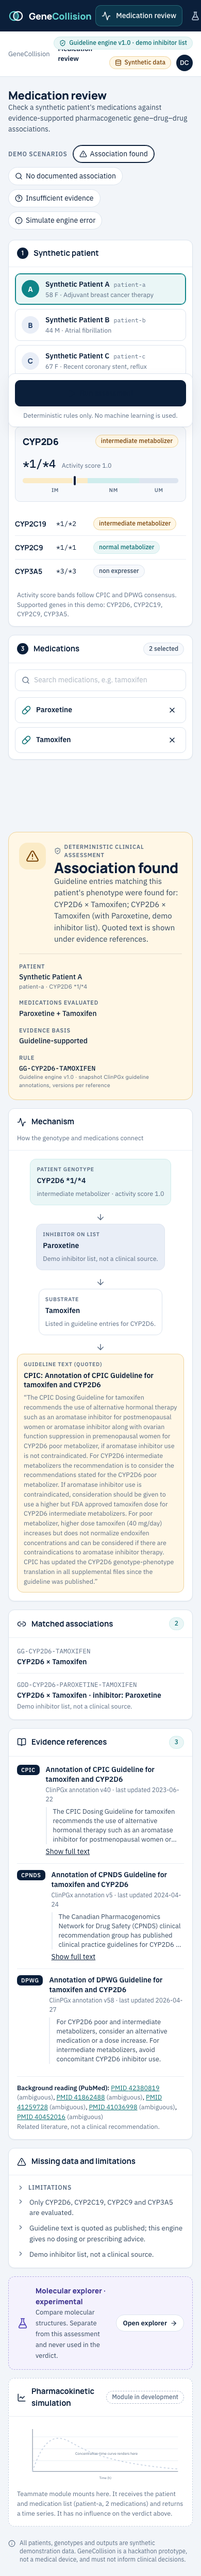
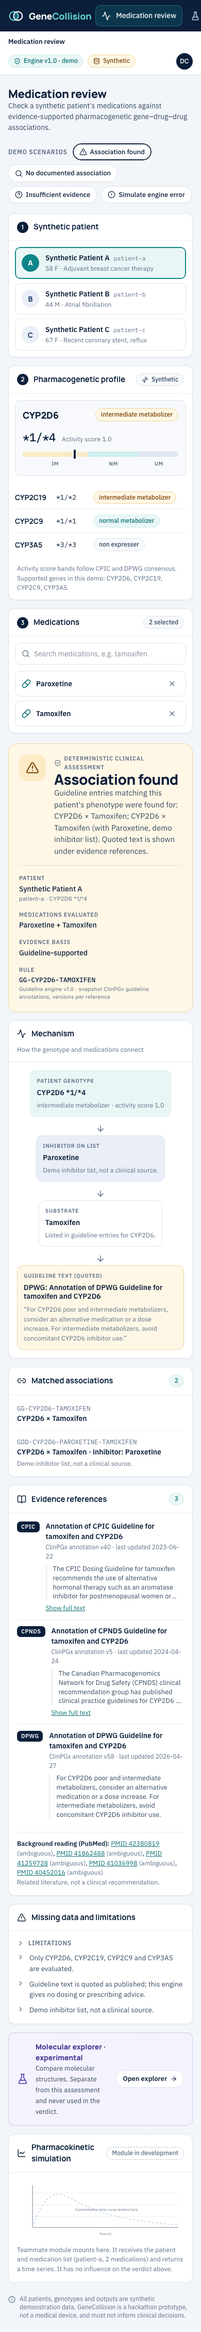
Fix invisible primary button label, mobile top bar layout, clean live screenshots
Unlayered 'button{color:inherit}' overrode Tailwind text-white (navy on navy).
Moved into @layer base; disabled primary keeps 5.2:1 contrast.

Claude-Session: https://claude.ai/code/session_0182fj3VCn8kKRYTbAWYw2mg

Changed region(s): [[0.0308, 0.0, 0.9846, 0.9976], [0.5846, 0.904, 0.6154, 0.9352], [0.0923, 0.8729, 0.1231, 0.904]]

diff --git a/frontend/src/components/shell/Topbar.tsx b/frontend/src/components/shell/Topbar.tsx
@@ -4,27 +4,31 @@ import { MEDICATION_REVIEW_MOCK_MODE } from '../../lib/config'
 
 export function Topbar({ title }: { title: string }) {
   return (
-    <header className="sticky top-0 z-10 flex min-h-[60px] items-center justify-between gap-3 border-b border-line bg-surface px-4 py-2.5 min-[721px]:px-6">
-      <div className="flex min-w-0 items-center gap-2 text-[13px] text-ink-3">
-        <span>GeneCollision</span>
-        <ChevronRight size={14} />
+    <header className="sticky top-0 z-10 flex min-h-[60px] items-center justify-between gap-3 border-b border-line bg-surface px-4 py-2.5 max-[559px]:flex-wrap min-[721px]:px-6">
+      <div className="flex min-w-0 items-center gap-2 text-[13px] text-ink-3 max-[559px]:w-full">
+        {/* Below 640px only the page title shows, so the chips and avatar never crowd it. */}
+        <span className="hidden min-[640px]:inline">GeneCollision</span>
+        <ChevronRight size={14} className="hidden min-[640px]:block" />
         <b className="font-semibold text-ink">{title}</b>
       </div>
-      <div className="flex flex-wrap items-center justify-end gap-2.5">
+      <div className="flex flex-none flex-nowrap items-center justify-end gap-2 max-[559px]:w-full max-[559px]:justify-start min-[721px]:gap-2.5">
         {MEDICATION_REVIEW_MOCK_MODE ? (
-          <Chip variant="exp" icon={<FlaskConical size={13} />} className="hidden min-[560px]:inline-flex">
-            Demo fixtures, not a live engine
+          <Chip variant="exp" icon={<FlaskConical size={13} />}>
+            <span className="hidden min-[560px]:inline">Demo fixtures, not a live engine</span>
+            <span className="min-[560px]:hidden">Demo fixtures</span>
           </Chip>
         ) : (
-          <Chip variant="teal" icon={<ShieldCheck size={13} />} className="hidden min-[560px]:inline-flex">
-            Guideline engine v1.0 · demo inhibitor list
+          <Chip variant="teal" icon={<ShieldCheck size={13} />}>
+            <span className="hidden min-[560px]:inline">Guideline engine v1.0 · demo inhibitor list</span>
+            <span className="min-[560px]:hidden">Engine v1.0 · demo</span>
           </Chip>
         )}
         <Chip variant="amber" icon={<Database size={13} />}>
-          Synthetic data
+          <span className="hidden min-[560px]:inline">Synthetic data</span>
+          <span className="min-[560px]:hidden">Synthetic</span>
         </Chip>
         <span
-          className="grid h-8 w-8 place-items-center rounded-full bg-navy-900 font-display text-xs font-bold text-white"
+          className="grid h-8 w-8 flex-none place-items-center max-[559px]:ml-auto rounded-full bg-navy-900 font-display text-xs font-bold text-white"
           title="Demo clinician"
         >
           DC

diff --git a/frontend/src/components/ui/Button.tsx b/frontend/src/components/ui/Button.tsx
@@ -4,10 +4,12 @@ export type ButtonVariant = 'default' | 'primary' | 'exp' | 'ghost'
 export type ButtonSize = 'default' | 'sm' | 'block'
 
 const VARIANTS: Record<ButtonVariant, string> = {
-  default: 'bg-surface border-line text-ink hover:border-[#B9C7D8] hover:bg-surface-2',
-  primary: 'bg-navy-900 border-navy-900 text-white hover:bg-navy-800 hover:border-navy-800',
-  exp: 'bg-exp-600 border-exp-600 text-white hover:bg-exp-800 hover:border-exp-800',
-  ghost: 'bg-transparent border-transparent text-ink-2 hover:bg-slate-100',
+  default: 'bg-surface border-line text-ink hover:border-[#B9C7D8] hover:bg-surface-2 disabled:opacity-50',
+  // Disabled primary stays fully opaque (slate fill) so the white label keeps >= 4.5:1 contrast.
+  primary:
+    'bg-navy-900 border-navy-900 text-white hover:bg-navy-800 hover:border-navy-800 disabled:border-ink-3 disabled:bg-ink-3 disabled:hover:bg-ink-3',
+  exp: 'bg-exp-600 border-exp-600 text-white hover:bg-exp-800 hover:border-exp-800 disabled:opacity-50',
+  ghost: 'bg-transparent border-transparent text-ink-2 hover:bg-slate-100 disabled:opacity-50',
 }
 
 const SIZES: Record<ButtonSize, string> = {
@@ -25,7 +27,7 @@ interface Props extends ButtonHTMLAttributes<HTMLButtonElement> {
 export function Button({ variant = 'default', size = 'default', className = '', children, ...rest }: Props) {
   return (
     <button
-      className={`inline-flex items-center justify-center gap-2 border font-semibold leading-tight transition disabled:cursor-not-allowed disabled:opacity-50 ${VARIANTS[variant]} ${SIZES[size]} ${className}`}
+      className={`inline-flex items-center justify-center gap-2 border font-semibold leading-tight transition disabled:cursor-not-allowed ${VARIANTS[variant]} ${SIZES[size]} ${className}`}
       {...rest}
     >
       {children}

diff --git a/frontend/src/index.css b/frontend/src/index.css
@@ -104,16 +104,23 @@ p {
   margin: 0;
 }
 
-button {
-  font: inherit;
-  color: inherit;
-  cursor: pointer;
-}
+/*
+ * In @layer base so Tailwind utilities (e.g. text-white on a primary Button)
+ * win. Unlayered, `color: inherit` here overrode them and rendered the
+ * primary button label navy-on-navy.
+ */
+@layer base {
+  button {
+    font: inherit;
+    color: inherit;
+    cursor: pointer;
+  }
 
-input,
-textarea {
-  font: inherit;
-  color: inherit;
+  input,
+  textarea {
+    font: inherit;
+    color: inherit;
+  }
 }
 
 :focus-visible {
